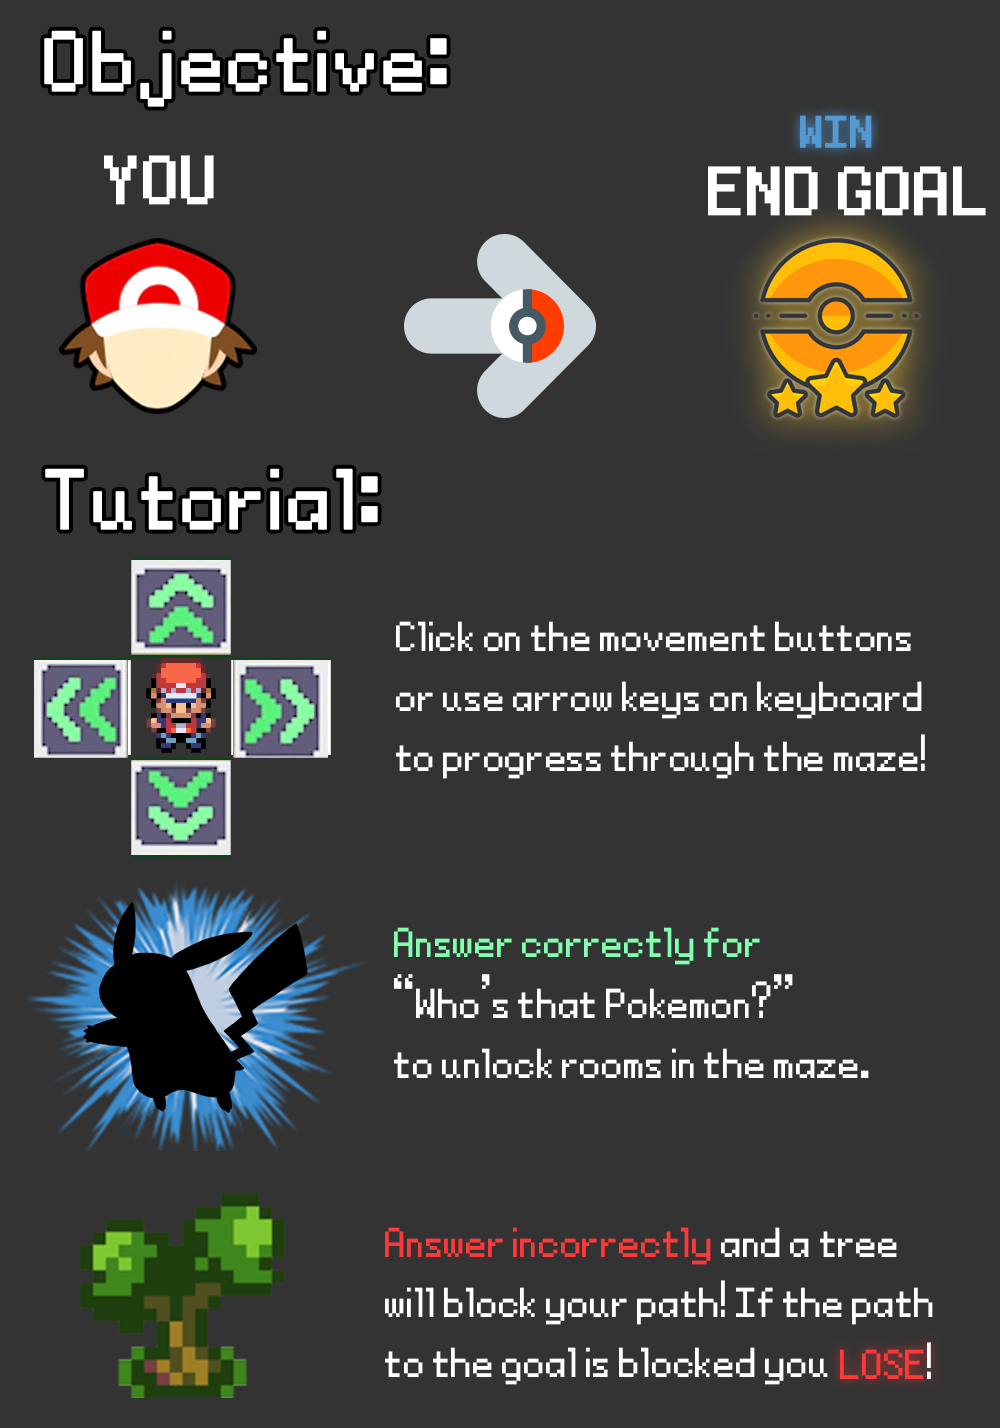
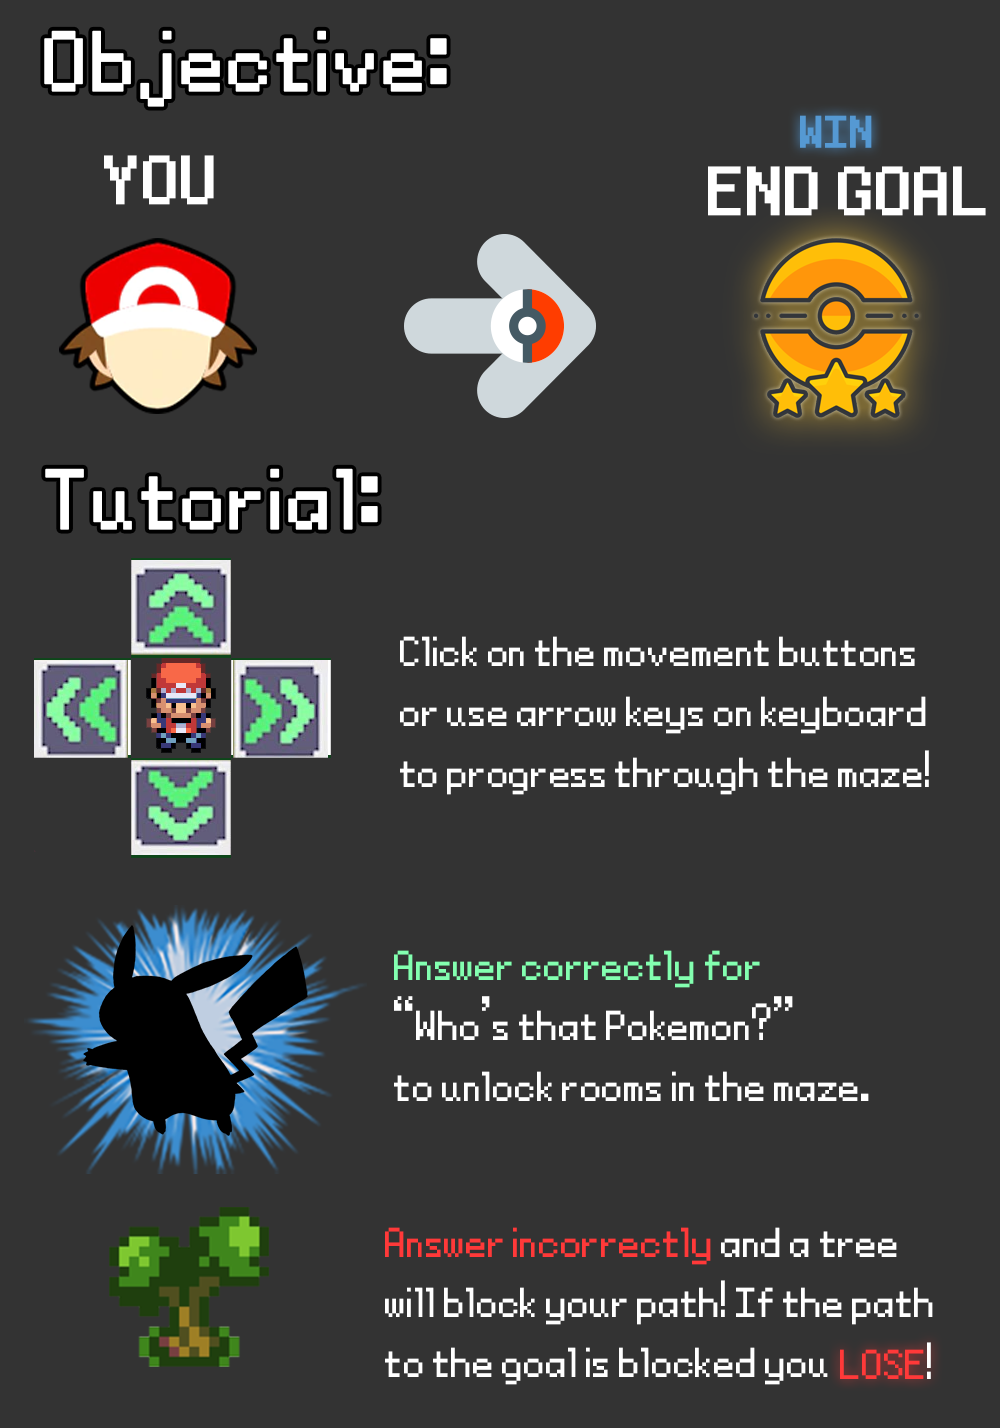
Question panels show answers for visited rooms
-quality of life shows the correct ans for rooms you have already visited
-fixed size of tutorial image
-removed unused databases
-added version number in about

Changed region(s): [[0.031, 0.6162, 0.341, 0.986], [0.372, 0.4314, 0.93, 0.5546], [0.372, 0.6471, 0.868, 0.7703]]

diff --git a/src/view/viewHelper/QuestionRoomGUI.java b/src/view/viewHelper/QuestionRoomGUI.java
@@ -171,23 +171,29 @@ public class QuestionRoomGUI extends AbstractQuestionPanel {
 	 * Put multiple choice text on the buttons
 	 */
 	public void setButtons() {
-		// TODO Auto-generated method stub
-		myButtonGroup.clearSelection();
-		final Maze maze = Maze.getInstance();
-		final ArrayList<String> choices = maze.getAttemptRoom().getChoices();
-		final Enumeration<AbstractButton> buttons = myButtonGroup.getElements();
-		int i = 0;
-		while (buttons.hasMoreElements()) {
-			final JRadioButton temp = (JRadioButton) buttons.nextElement();
-			temp.setText(choices.get(i));
-			temp.setForeground(Color.BLACK);
-			i++;
+		// set answers if its a room already visited
+		if (myMaze.getAttemptRoom().hasVisited()) {
+			setButtonsAnswer();
+		} else {
+			myButtonGroup.clearSelection();
+			final Maze maze = Maze.getInstance();
+			final ArrayList<String> choices = maze.getAttemptRoom()
+					.getChoices();
+			final Enumeration<AbstractButton> buttons = myButtonGroup
+					.getElements();
+			int i = 0;
+			while (buttons.hasMoreElements()) {
+				final JRadioButton temp = (JRadioButton) buttons.nextElement();
+				temp.setText(choices.get(i));
+				temp.setForeground(Color.BLACK);
+				i++;
+			}
 		}
 	}
 
 	/*
-	 * Set the color of the text after the user answers
-	 * Green = correct, red = incorrect
+	 * Set the color of the text after the user answers Green = correct, red =
+	 * incorrect
 	 */
 	public void setButtonsAnswer() {
 		final Maze maze = Maze.getInstance();
@@ -199,6 +205,7 @@ public class QuestionRoomGUI extends AbstractQuestionPanel {
 			final JRadioButton temp = (JRadioButton) buttons.nextElement();
 			temp.setText(choices.get(i));
 			if (i == answerIndex) {
+				temp.setSelected(true);
 				temp.setForeground(Color.GREEN);
 			} else {
 				temp.setForeground(Color.RED);
@@ -230,7 +237,7 @@ public class QuestionRoomGUI extends AbstractQuestionPanel {
 	/**
 	 * Set all multiple choice buttons state on or off
 	 * 
-	 * @boolean the state of buttons 
+	 * @boolean the state of buttons
 	 */
 	@Override
 	public void enableButtons(Boolean theBool) {
@@ -246,8 +253,8 @@ public class QuestionRoomGUI extends AbstractQuestionPanel {
 		}
 
 	}
-	
-	//inner class called when user clicks an answer button
+
+	// inner class called when user clicks an answer button
 	class AnswerDisplay implements ActionListener {
 
 		@Override

diff --git a/src/view/viewHelper/TextRoomGUI.java b/src/view/viewHelper/TextRoomGUI.java
@@ -119,7 +119,7 @@ public class TextRoomGUI extends AbstractQuestionPanel {
 				 * if(myUserAns.getText().isEmpty()) {
 				 * myUserAns.setText(PUT_TEXT); }
 				 */
-				
+
 			}
 
 		});
@@ -143,17 +143,21 @@ public class TextRoomGUI extends AbstractQuestionPanel {
 	}
 
 	/**
-	 * Startup settings of user input field
+	 * Startup settings of user input field Makes textbox focused for convience
 	 * 
 	 */
 	@Override
 	public void setButtons() {
-		myUserAns.setText(PUT_TEXT);
-		myUserAns.requestFocusInWindow();
+		// myUserAns.setText(PUT_TEXT);
+		if (myMaze.getAttemptRoom().hasVisited()) {
+			myUserAns.setText(myMaze.getAttemptRoom().getAnswer());
+		} else {
+			myUserAns.requestFocusInWindow();
+		}
 
 	}
 
-	//inner class that checks for when user enters an answer
+	// inner class that checks for when user enters an answer
 	public class EnterListener extends KeyAdapter {
 
 		@Override
@@ -161,9 +165,8 @@ public class TextRoomGUI extends AbstractQuestionPanel {
 			if (evt.getKeyCode() == KeyEvent.VK_ENTER) {
 
 				verifyAnswer(myUserAns.getText());
-				
-				
-				//remove focus so the movement keybinds still work
+
+				// remove focus so the movement keybinds still work
 				myPP.requestFocusInWindow();
 			}
 		}

diff --git a/src/view/PokemonMenuBar.java b/src/view/PokemonMenuBar.java
@@ -232,8 +232,8 @@ public class PokemonMenuBar extends JMenuBar implements Serializable {
 		about.setAccelerator(
 				KeyStroke.getKeyStroke(KeyEvent.VK_A, ActionEvent.CTRL_MASK));
 		about.addActionListener(new ActionListener() {
-
-			private final String aboutMessage = "Pokemon Trivia Maze\nCreated by: AJ Downey, Kenneth Ahrens, and Katelyn Malone"
+			private final String version = "Pokemon Trivia Maze v1.0";
+			private final String aboutMessage = version + "\nCreated by: AJ Downey, Kenneth Ahrens, and Katelyn Malone"
 					+ "\nSpring 2021\n" + "\nDISCLAIMER:\n"
 					+ "This is a fan-made-non-profit project based on the \"Who's that Pokemon?\" segment from the original Pokemon anime."
 					+ "\nWe are not affliated or endorsed with the Pokemon company. All copyright belongs to Nintendo/Gamefreak.";
